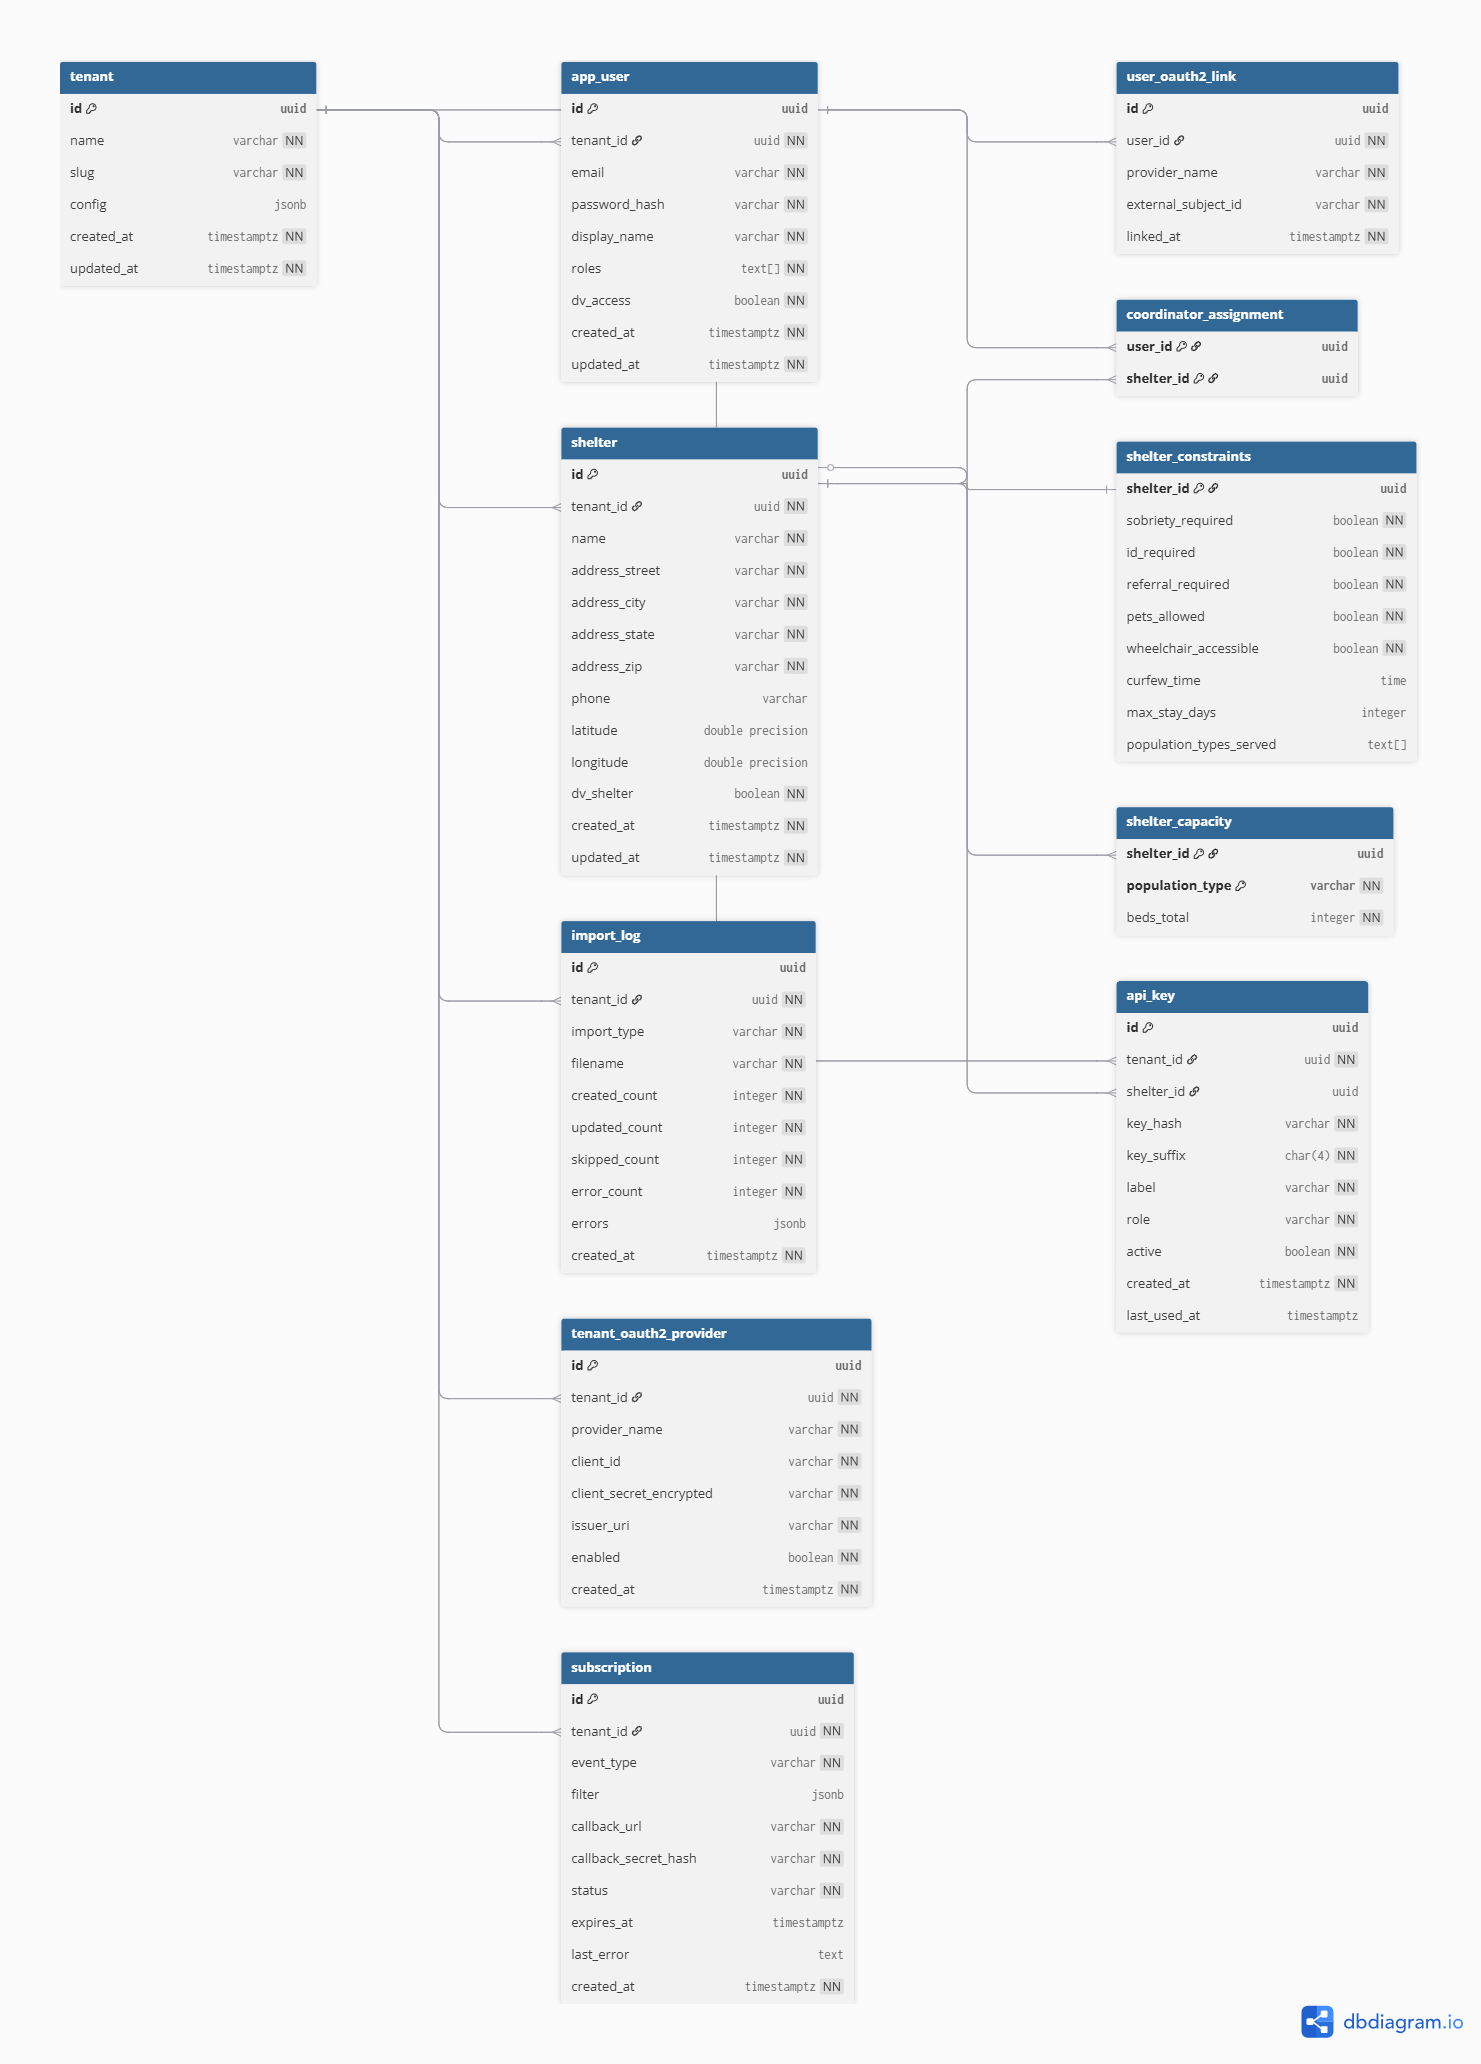
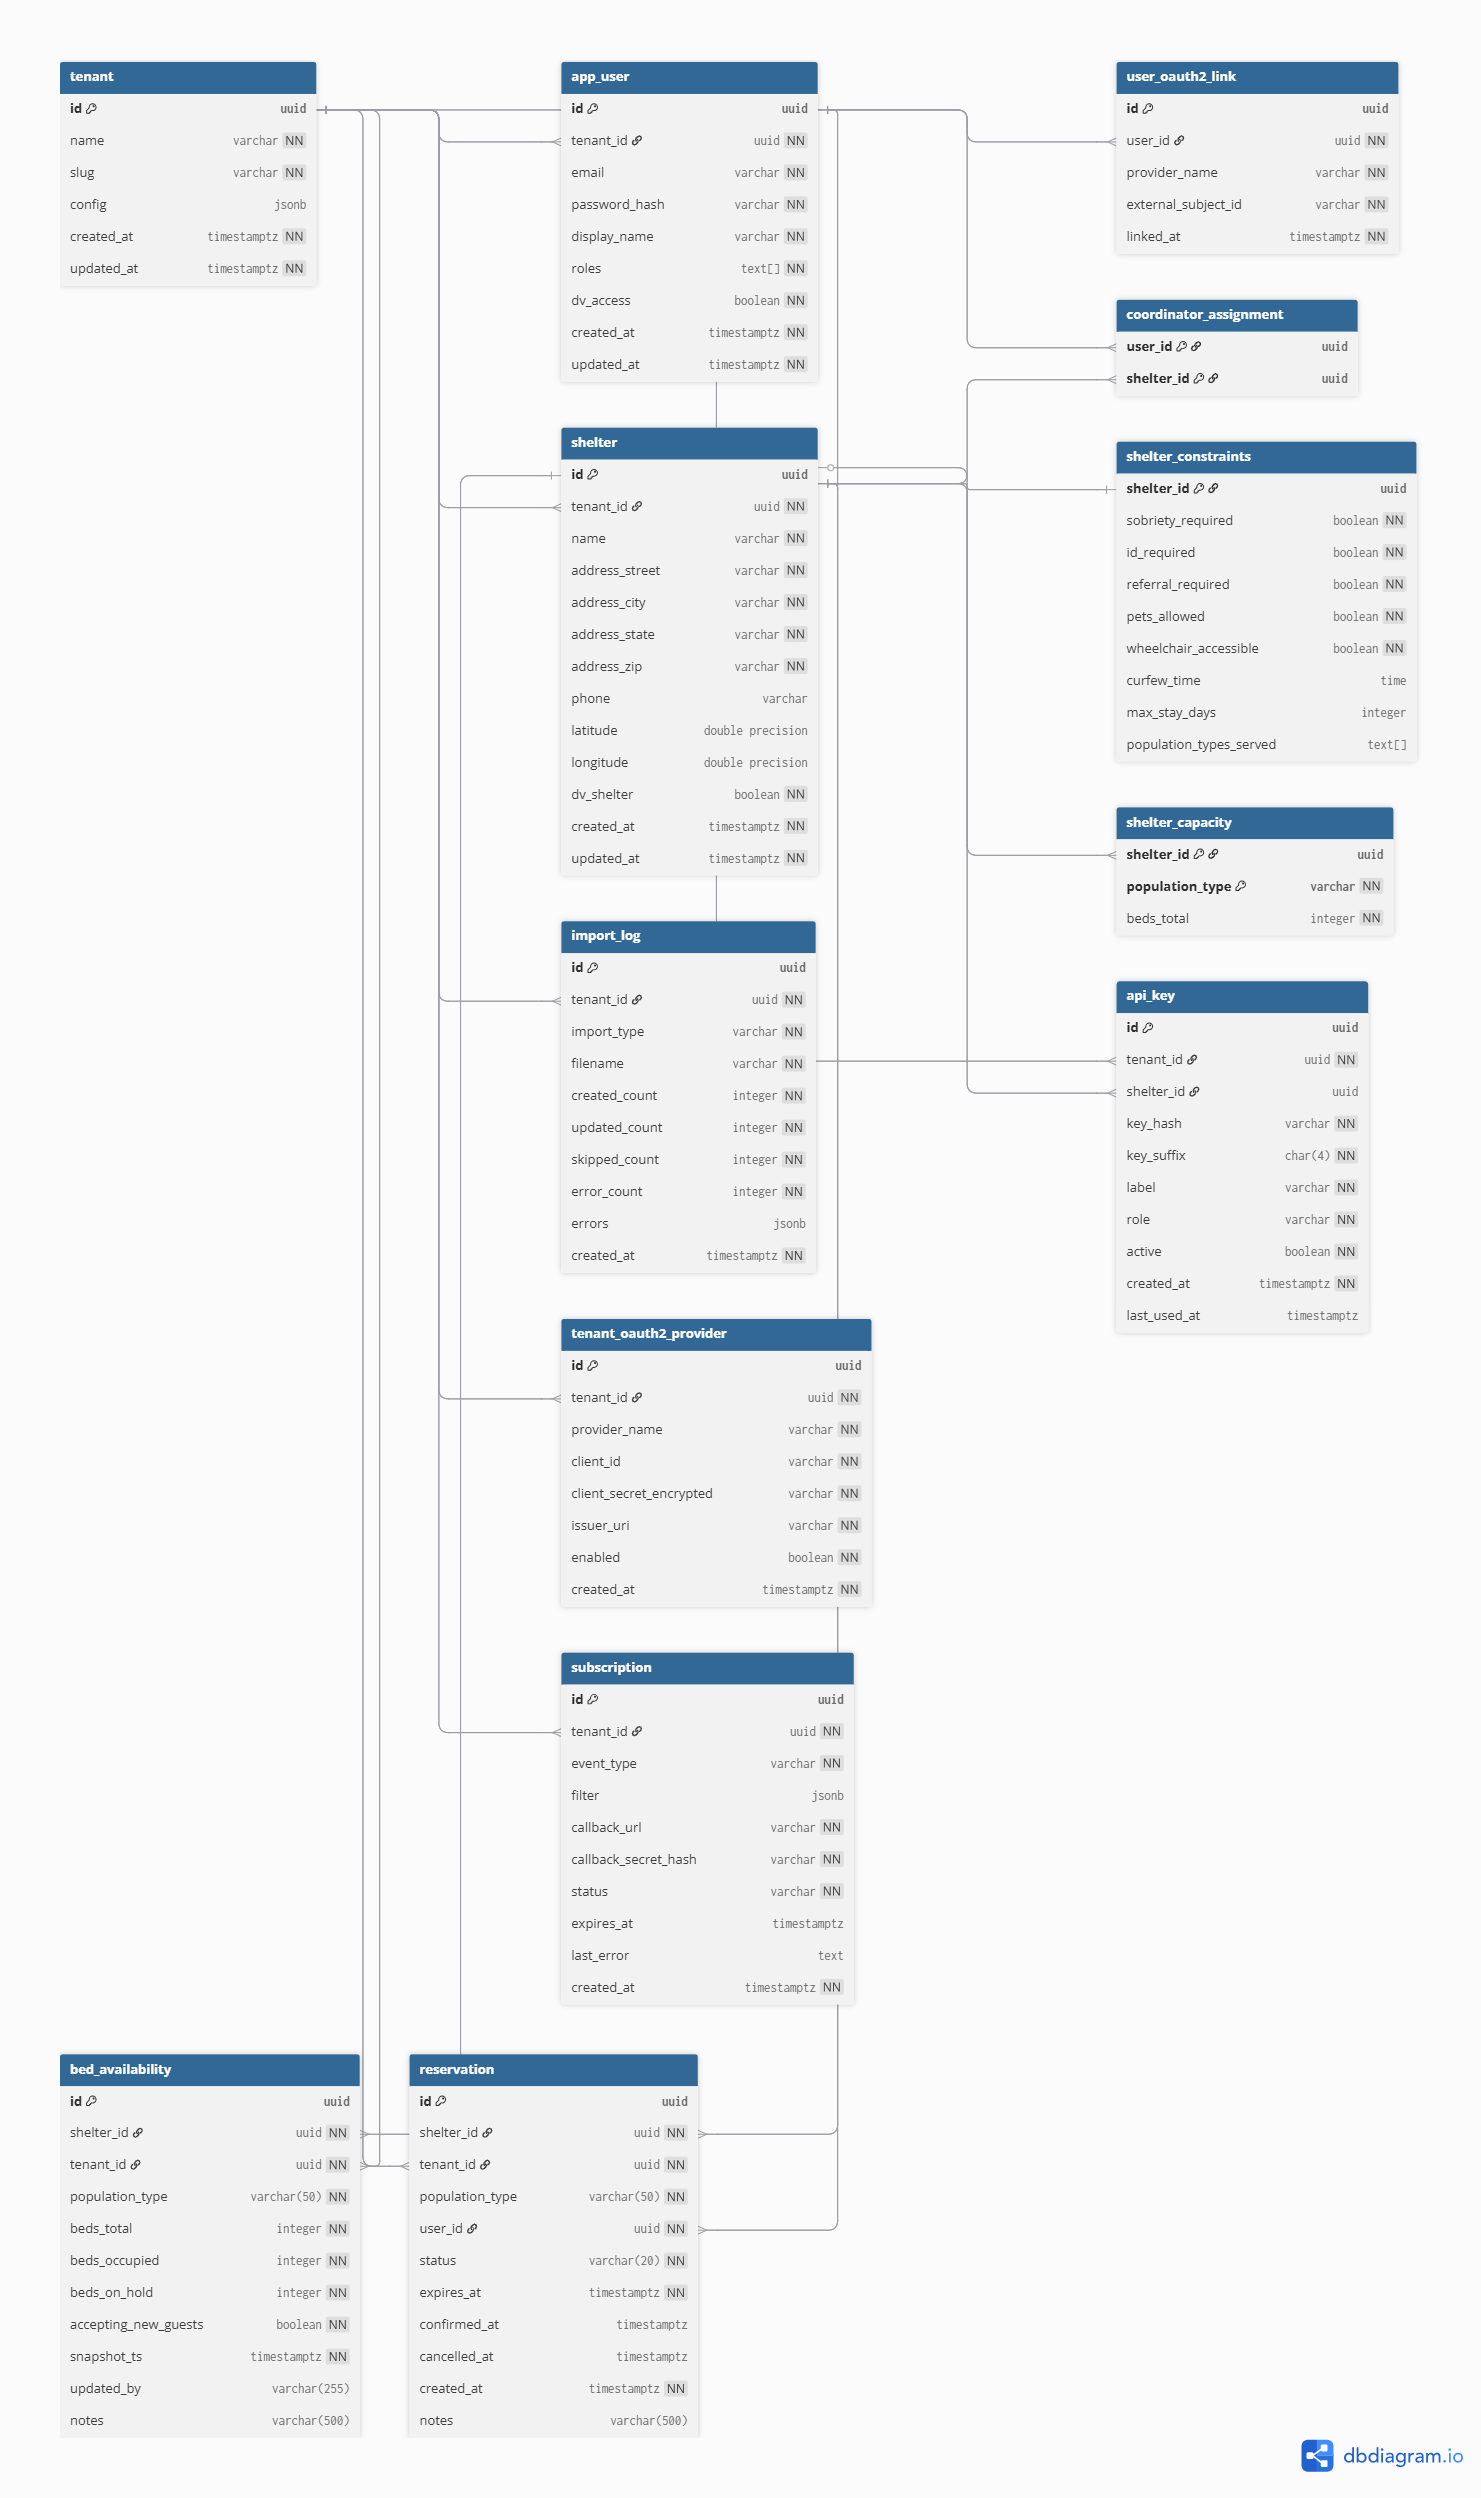
Security scan #32: fix 4 Semgrep findings in Terraform + update ERD
Terraform fixes:
- DynamoDB state lock: explicit SSE + point-in-time recovery
- ALB: optional HTTPS listener with TLS 1.2+ (gated on certificate_arn)
- Public subnets: disable map_public_ip_on_launch
- RDS: enable CloudWatch log exports (postgresql, upgrade)

Updated docs/erd.png with bed_availability and reservation tables.
Removed stale security-scan-report.md, replaced with build #32 remediation.

diff --git a/security-remediation-2026-03-20.md b/security-remediation-2026-03-20.md
@@ -1,0 +1,75 @@
+# Security Scan Remediation — 2026-03-20
+
+Jenkins security scan (build #32) identified 4 Semgrep findings in Terraform infrastructure code.
+All 4 have been remediated.
+
+## Finding 1: DynamoDB table using default encryption
+
+**Rule:** `aws-dynamodb-table-unencrypted`
+**File:** `infra/terraform/bootstrap/main.tf` (DynamoDB state lock table)
+**Severity:** Medium
+
+**What changed:** Added `server_side_encryption { enabled = true }` and `point_in_time_recovery { enabled = true }`.
+
+**Why:** The Terraform state lock table was relying on default AWS-managed encryption. Explicitly enabling server-side encryption makes the security posture auditable and ensures the setting cannot silently regress. Point-in-time recovery was added as a related hardening measure — state lock corruption could block all Terraform operations.
+
+---
+
+## Finding 2: ALB listener missing TLS 1.2+ enforcement
+
+**Rule:** `insecure-load-balancer-tls-version`
+**File:** `infra/terraform/modules/app/main.tf` (ALB listener)
+**Severity:** Medium
+
+**What changed:**
+- Added an optional HTTPS listener gated on a new `certificate_arn` variable
+- HTTPS listener uses `ELBSecurityPolicy-TLS13-1-2-2021-06` (enforces TLS 1.2+, prefers TLS 1.3)
+- When a certificate is provided, the HTTP listener redirects to HTTPS (301)
+- API routing rule attaches to the HTTPS listener when available
+
+**Why:** The ALB only had an HTTP listener — all traffic was unencrypted. TLS versions below 1.2 have known vulnerabilities (BEAST, POODLE, etc.). The fix is backward-compatible: without a `certificate_arn`, behavior is unchanged (HTTP-only for local/dev). Once an ACM certificate is provisioned, setting the variable enables full HTTPS with modern TLS.
+
+**New variable added to `modules/app/variables.tf`:**
+```hcl
+variable "certificate_arn" {
+  description = "ACM certificate ARN for HTTPS listener (empty string disables HTTPS)"
+  type        = string
+  default     = ""
+}
+```
+
+---
+
+## Finding 3: Public subnet assigns public IPs automatically
+
+**Rule:** `aws-subnet-has-public-ip-address`
+**File:** `infra/terraform/modules/network/main.tf` (public subnets)
+**Severity:** Medium
+
+**What changed:** Set `map_public_ip_on_launch = false` on public subnets.
+
+**Why:** Automatically assigning public IPs to every resource launched in the subnet violates least-privilege networking. The ALB (the only resource intended for the public subnet) gets its public IP from its own Elastic IP / ENI allocation — it does not depend on `map_public_ip_on_launch`. Disabling this prevents accidental public exposure if an ECS task or other resource is mistakenly placed in the public subnet.
+
+---
+
+## Finding 4: RDS instance missing CloudWatch log exports
+
+**Rule:** `aws-db-instance-no-logging`
+**File:** `infra/terraform/modules/postgres/main.tf` (RDS PostgreSQL)
+**Severity:** Medium
+
+**What changed:** Added `enabled_cloudwatch_logs_exports = ["postgresql", "upgrade"]`.
+
+**Why:** Without log exports, database errors, slow queries, and upgrade issues are only visible inside the RDS instance and are lost on restart or replacement. Exporting PostgreSQL and upgrade logs to CloudWatch enables alerting, audit trails, and post-incident analysis. This is an AWS Well-Architected best practice for any production database.
+
+---
+
+## Scan Summary
+
+| Tool | findABed | finding-a-bed-tonight |
+|------|----------|----------------------|
+| Gitleaks (secrets) | No leaks | No leaks |
+| Maven (SpotBugs, PMD, Checkstyle, OWASP) | N/A (no pom.xml) | 90 medium (dependency CVEs) |
+| Semgrep (SAST) | 0 findings | **4 findings → all fixed** |
+
+**Overall:** CRITICAL: 0, HIGH: 0, MEDIUM: 90 (dependency) + 4 (infra, now fixed), LOW: 0
